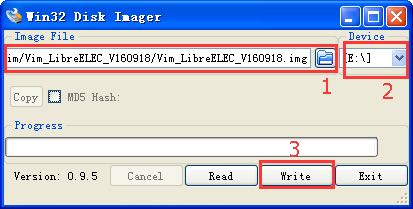
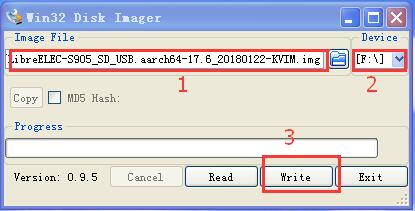
docs: VIMs: docs for VIMs
1. remove InstallLibreELECViaWindows.md
2. remove CreateLibreELECBootCardViaCLI.md
3. add InstallLibreELEC.md

diff --git a/source/vim1/InstallLibreELEC.md b/source/vim1/InstallLibreELEC.md
@@ -1,0 +1,76 @@
+title: Howto Install LibreELEC
+---
+
+**LibreELEC is running on external medias(SD card or U-disk), so you need to write the image to SD/USB storage.**
+
+## Preperations
+- [x] Download the [Win32DiskImager](https://sourceforge.net/projects/win32diskimager/).
+- [x] Extract and install it on your Windows PC.
+- [x] A SD card and a card reader or a U-disk is required, make sure there's nothing important on your card as ALL the data will be wiped out after the following operations.
+
+
+## Download the LibreELEC image
+You can download LibreELEC images from [firmware page](/vim1/Firmware.html#LibreELEC-1).
+*Note: Image contains KVIM is image for VIM1, and KVIM2 is for VIM2.*
+
+## Write image to SD/USB storage
+There are two ways to write LibreELEC image to SD/USB storage:
+
+### On Windows PC
+1. Run Win32DiskImager.
+2. Insert the SD/USB storage into your PC, it should appear as a new drive letter
+3. Select the image file and verify the destination drive letter is correct, then click `write`:
+![Image of Win32DiskImagerLibreELEC.jpg](/images/vim1/Win32DiskImagerLibreELEC.jpg)
+4. When write process completed you can safely remove the SD/USB storage by right clicking on the drive in Windows explorer and selecting eject.
+
+### On Linux
+**Get the device node of SD/USB storage:**
+After you've inserted the TF card to your PC, use `dmesg | tail` to find out what /dev/sdX it is. 
+You can also use `parted` or `fdisk`, It should be something like /dev/sdX:
+```sh
+$ sudo parted -l
+...
+Model: Mass Storage Device (scsi)
+Disk /dev/sdb: 3997MB
+Sector size (logical/physical): 512B/512B
+Partition Table: msdos
+Disk Flags: 
+
+Number  Start   End     Size    Type     File system  Flags
+ 1      16.5MB  3989MB  3973MB  primary  fat32        boot
+```
+**Make sure the disk is unmounted:**
+```sh
+$ sudo umount /dev/sdb1
+```
+
+**Use `dd` to write the disk image into SD/USB storage:**
+```sh
+sudo dd if=LibreELEC-S905_SD_USB.aarch64-17.6_20180122-KVIM.img of=/dev/sdb bs=4M && sync
+```
+*Notice: `sync` is ensure the changes are synced to the SD/USB storage before removing it.*
+
+
+**Eject the SD/USB storage:**
+```sh
+$ sudo eject /dev/sdb
+```
+
+## Boot LibreELEC from the SD/USB storage
+In order to boot from SD/USB storage, you need Android running on eMMC and activate the multi-boot.
+
+Two ways to activate the multi-boot:
+
+1). Via [Keys mode](/vim1/HowtoBootIntoUpgradeMode.html#Keys-Mode-U-Boot-is-running)
+2). Activate multi-boot via Android.
+* Enter `Settings>About Device->System->updates`
+* Click select and choose `aml_autosript.zip`
+* Click update, then the system will reboot and boot to external media image
+**Note: Don't use PC USB host to supply the power, or will fail to activate multi-boot!**
+
+
+## NOTICE
+* For previous Android N has permission issue, you can't use it to boot your external media image, or your booting card will be broken.
+* For Android O also has permission issue. If you want to boot Ubuntu with linux 4.9 please refer to [this reply](http://forum.khadas.com/t/armbian-kodi-ubuntu-debian-for-sd-usb-em mc/825/109).
+
+

diff --git a/source/zh-cn/vim1/InstallLibreELEC.md b/source/zh-cn/vim1/InstallLibreELEC.md
@@ -1,0 +1,70 @@
+title: 如何安装LibreELEC
+---
+
+**LibreELEC运行在外部媒体介质上，如：SD卡或U盘，所以需要把镜像写入到外部媒体介质。**
+
+## 准备工作
+* [x] 下载 [Win32DiskImager](https://sourceforge.net/projects/win32diskimager/)。
+* [x] 解压并安装到Windows电脑上。
+* [x] 一张SD卡和一个SD卡读卡器或一个U盘。
+
+注意：若是SD卡或U盘里面有数据要提前备份出来，制作过程会格式化整个SD卡。
+
+## 下载固件
+可以从[固件列表](/zh-cn/vim1/Firmware.html#LibreELEC-1)下载LibreELEC固件。
+*注意：固件包含KVIM字样的是VIM1的固件，包含KVIM2字样的是VIM2固件。*
+
+## 写入固件到SD/USB存储器
+### 通过Windows PC写入
+1. 运行Win32DiskImager
+2. 插入SD或U盘到电脑上，电脑有识别到SD卡或U盘的盘符
+3. 选择固件，并确认已经选择正确的SD卡或U盘盘符，然后点击"write":
+![Image of Win32DiskImagerLibreELEC.jpg](/images/vim1/Win32DiskImagerLibreELEC.jpg)
+4. 操作完成后，安全移除SD卡或U盘。
+
+### 通过Linux PC写入
+**获取SD卡或U盘设备的节点:**
+插入SD卡或U盘到电脑上，通过"dmesg | tail"指令找到TF卡设备，挂载在节点。也可以使用“parted”或者“fdisk”，这两个跟"/dev/sdX"有点类似:
+```
+$ sudo parted -l
+...
+Model: Mass Storage Device (scsi)
+Disk /dev/sdb: 3997MB
+Sector size (logical/physical): 512B/512B
+Partition Table: msdos
+Disk Flags: 
+
+Number  Start   End     Size    Type     File system  Flags
+ 1      16.5MB  3989MB  3973MB  primary  fat32        boot
+```
+**确保接上去的SD卡或U盘处于未挂载状态:**
+```
+$ sudo umount /dev/sdb1
+```
+**使用"dd"写入磁盘映像文件到SD卡或U盘**
+```
+sudo dd if==LibreELEC-S905_SD_USB.aarch64-17.6_20180122-KVIM.img of=/dev/sdb bs=4M && sync
+```
+_说明: 写入指令操作完后，为确保缓存都已写入到SD卡或U盘中可以执行一下"sync"指令再进行安全移除。_
+
+**安全移除SD卡**
+```
+$ sudo eject /dev/sdb
+```
+至此，启动卡制作已完成。
+
+## 从SD卡或U盘启动LibreELEC
+要运行SD卡或U盘中的固件，需要安卓运行在eMMC，同时还要激活多启动。
+激活多启动方式有两种：
+1)、通过[按键模式](/zh-cn/vim1/HowtoBootIntoUpgradeMode.html#按键模式-U-Boot正常运行)。
+2)、通过安卓系统激活。
+* 进入`Settings>About Device->System->updates`。
+* 点击`select`并选择`aml_autosript.zip`。
+* 点击`update`，系统会重启运行外部媒体介质固件。
+**注意：不要使用电脑USB供电，要使用适配器供电，否则会导致激活多启动失败！**
+
+## 注意
+* 对于之前的Android N存在权限问题，所以不能通过之前版本来启动外部媒体介质镜像，否则或导致外部媒体介质镜像被破坏。
+
+* 对于Android O同样有权限问题。如果你想要通过Android O来启动linux 4.9内核的系统，可以参考[这里](http://forum.khadas.com/t/armbian-kodi-ubuntu-debian-for-sd-usb-emmc/825/109)解决。
+

diff --git a/source/vim2/InstallLibreELEC.md b/source/vim2/InstallLibreELEC.md
@@ -1,0 +1,1 @@
+../vim1/InstallLibreELEC.md

diff --git a/source/zh-cn/vim2/InstallLibreELEC.md b/source/zh-cn/vim2/InstallLibreELEC.md
@@ -1,0 +1,1 @@
+../vim1/InstallLibreELEC.md
